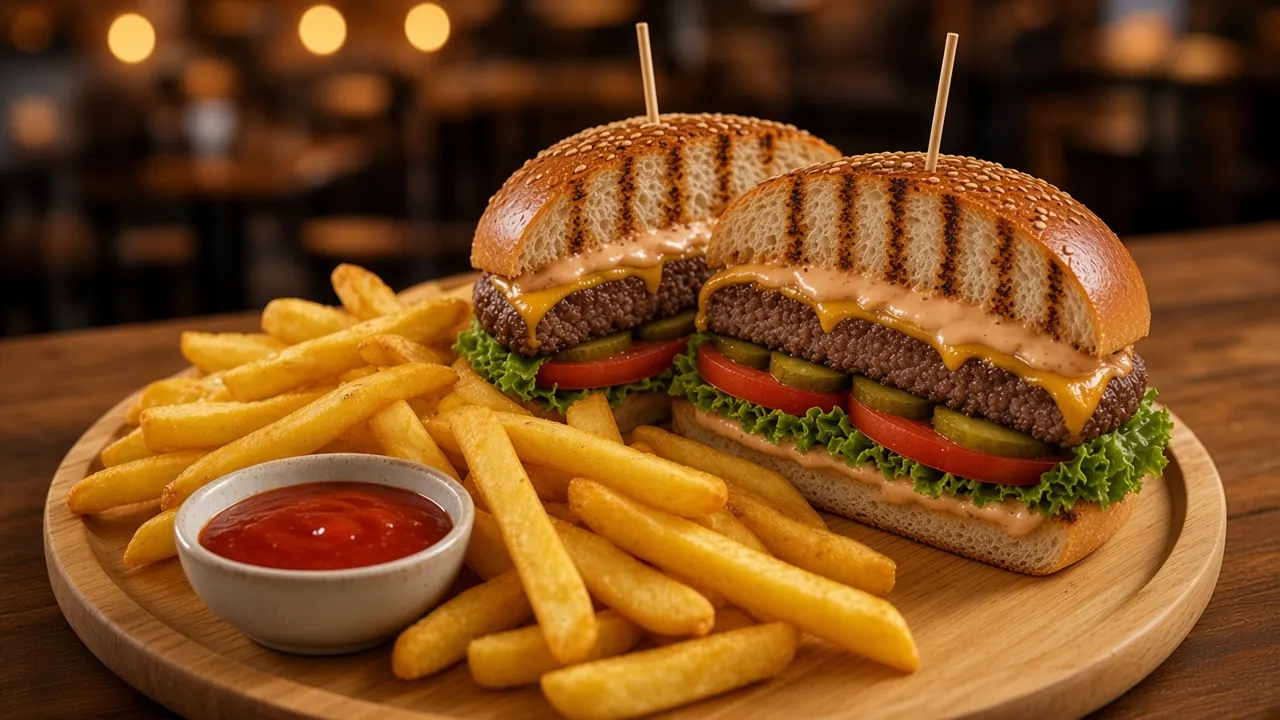
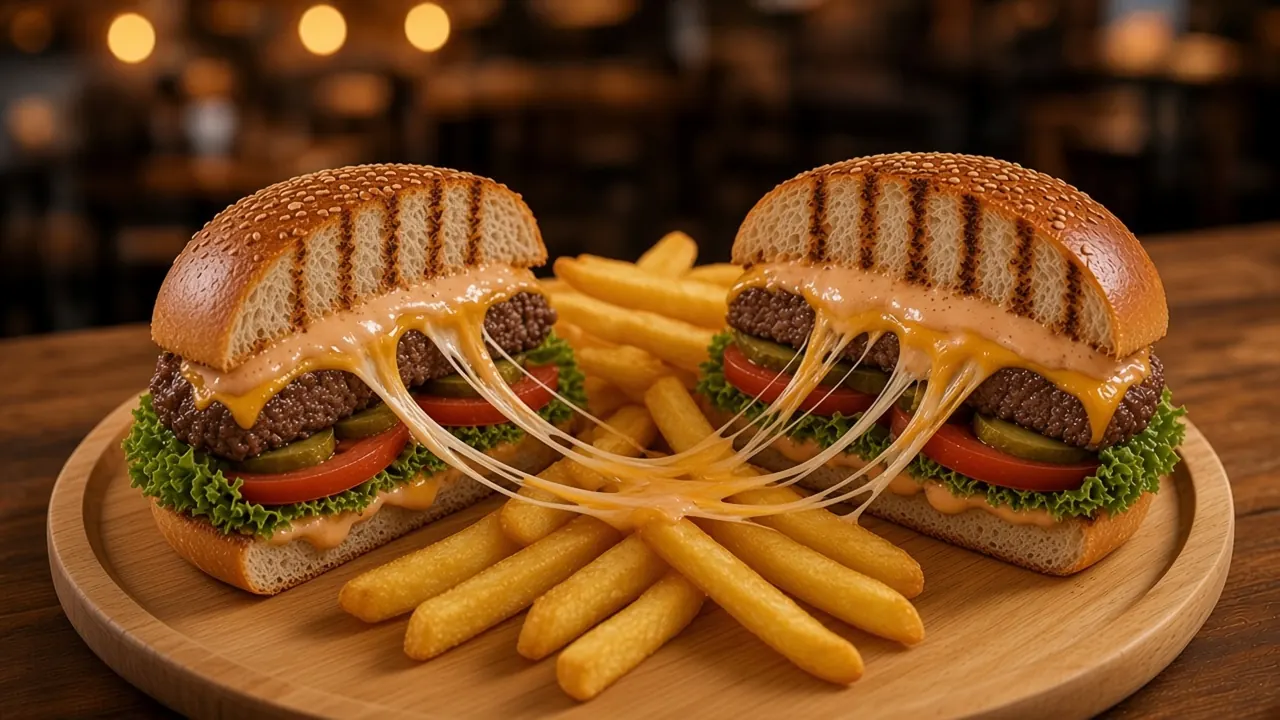
Hamburger görseli: V şeklinde yarımlar, uzayan cheddar, ortada patates

diff --git a/index.html b/index.html
@@ -13,7 +13,7 @@
      3) Alttaki JSON-LD içindeki "url" ve "image" alanlarına da aynı adresi ekleyin.
 <link rel="canonical" href="https://ALAN-ADI/">
 <meta property="og:url" content="https://ALAN-ADI/">
-<meta property="og:image" content="https://ALAN-ADI/img/hero-hamburger.webp">
+<meta property="og:image" content="https://ALAN-ADI/img/hero-hamburger.webp?v=3">
      ================================================================ -->
 <meta property="og:type" content="restaurant">
 <meta property="og:locale" content="tr_TR">
@@ -24,8 +24,8 @@
 <link rel="preconnect" href="https://fonts.googleapis.com">
 <link rel="preconnect" href="https://fonts.gstatic.com" crossorigin>
 <link rel="stylesheet" href="https://fonts.googleapis.com/css2?family=Bricolage+Grotesque:opsz,wght@12..96,500;12..96,700;12..96,800&family=Inter:wght@400;500;600;700&display=swap">
-<link rel="preload" as="image" href="img/hero-hamburger.webp" imagesrcset="img/hero-hamburger-640.webp 640w, img/hero-hamburger.webp 1280w" imagesizes="100vw">
-<link rel="stylesheet" href="assets/site.css">
+<link rel="preload" as="image" href="img/hero-hamburger.webp?v=3" imagesrcset="img/hero-hamburger-640.webp?v=3 640w, img/hero-hamburger.webp?v=3 1280w" imagesizes="100vw">
+<link rel="stylesheet" href="assets/site.css?v=3">
 <script>if(/[?&]shoot=1/.test(location.search))document.documentElement.classList.add('shoot');document.documentElement.classList.add('js');</script>
 <script type="application/ld+json">
 {
@@ -79,8 +79,8 @@
   <!-- HERO -->
   <section class="hero" aria-labelledby="hero-h">
     <picture class="hero__bg">
-      <source type="image/webp" srcset="img/hero-hamburger-640.webp 640w, img/hero-hamburger.webp 1280w" sizes="100vw">
-      <img src="img/hero-hamburger.webp" alt="Izgarada kızartılmış ekmekli, cheddarlı hamburger ve patates" width="1280" height="720" fetchpriority="high">
+      <source type="image/webp" srcset="img/hero-hamburger-640.webp?v=3 640w, img/hero-hamburger.webp?v=3 1280w" sizes="100vw">
+      <img src="img/hero-hamburger.webp?v=3" alt="Izgarada kızartılmış ekmekli, cheddarlı hamburger ve patates" width="1280" height="720" fetchpriority="high">
     </picture>
     <div class="hero__shade" aria-hidden="true"></div>
     <div class="wrap hero__in">
@@ -115,7 +115,7 @@
   <section class="section signature" id="imza" aria-labelledby="imza-h">
     <div class="wrap signature__in">
       <figure class="signature__media reveal">
-        <img src="img/hero-hamburger.webp" srcset="img/hero-hamburger-640.webp 640w, img/hero-hamburger.webp 1280w" sizes="(min-width: 900px) 55vw, 100vw" alt="Ekmeği ızgarada kızartılmış, özel soslu, marul, domates, turşu, köfte ve cheddarlı hamburger, yanında patates" width="1280" height="720" loading="lazy" decoding="async">
+        <img src="img/hero-hamburger.webp?v=3" srcset="img/hero-hamburger-640.webp?v=3 640w, img/hero-hamburger.webp?v=3 1280w" sizes="(min-width: 900px) 55vw, 100vw" alt="İkiye kesilmiş, V şeklinde duran hamburger yarımları arasında uzayan cheddar ve ortada patates" width="1280" height="720" loading="lazy" decoding="async">
         <span class="stamp" aria-hidden="true">İmza<br>Lezzet</span>
       </figure>
       <div class="signature__text reveal">
@@ -329,6 +329,6 @@
 <div class="toast" id="toast" role="status" aria-live="polite"></div>
 
 <script src="assets/main.js" defer></script>
-<script src="assets/order.js" defer></script>
+<script src="assets/order.js?v=3" defer></script>
 </body>
 </html>

diff --git a/assets/order.js b/assets/order.js
@@ -5,7 +5,7 @@
   var WA_NUMBER='905426477210';
   var KEY='maminin-yeri-sepet-v1';
   var FOOD=[
-    {id:'hamburger',name:'Hamburger + patates',img:'hero-hamburger',tag:'İmza'},
+    {id:'hamburger',name:'Hamburger + patates',img:'hero-hamburger',tag:'İmza',v:3},
     {id:'balik',name:'Balık ekmek',img:'balik-ekmek'},
     {id:'kofte',name:'Köfte ekmek',img:'kofte-ekmek'},
     {id:'sucuk',name:'Sucuk ekmek',img:'sucuk-ekmek'},
@@ -33,7 +33,7 @@
   function esc(t){ return String(t).replace(/[&<>"]/g,function(c){return {'&':'&amp;','<':'&lt;','>':'&gt;','"':'&quot;'}[c];}); }
 
   function row(p,isFood){
-    var media=isFood?'<img src="img/thumb-'+p.img+'.webp" alt="" width="72" height="72" loading="lazy" decoding="async">':'<span class="ico" aria-hidden="true">'+p.ico+'</span>';
+    var media=isFood?'<img src="img/thumb-'+p.img+'.webp'+(p.v?'?v='+p.v:'')+'" alt="" width="72" height="72" loading="lazy" decoding="async">':'<span class="ico" aria-hidden="true">'+p.ico+'</span>';
     var note=isFood?'<input class="inote" data-note="'+p.id+'" maxlength="80" placeholder="Bu ürüne not (örn. soğansız)" aria-label="'+esc(p.name)+' için not">':'';
     return '<li class="item" data-id="'+p.id+'">'+media+
       '<div class="item__main"><span class="item__name">'+esc(p.name)+(p.tag?' <em class="mini">'+p.tag+'</em>':'')+'</span>'+note+'</div>'+

diff --git a/assets/site.css b/assets/site.css
@@ -47,7 +47,7 @@ h3{font-size:1.35rem;font-weight:700;letter-spacing:-.01em}
 /* hero */
 .hero{position:relative;min-height:min(100svh,900px);display:flex;align-items:flex-end;overflow:hidden;isolation:isolate}
 .hero__bg,.hero__bg img{position:absolute;inset:0;width:100%;height:100%;object-fit:cover;z-index:-2}
-.hero__bg img{object-position:62% 50%;transform:scale(1.04);animation:slowzoom 18s ease-out forwards}
+.hero__bg img{object-position:58% 50%;transform:scale(1.04);animation:slowzoom 18s ease-out forwards}
 @keyframes slowzoom{to{transform:scale(1)}}
 .hero__shade{position:absolute;inset:0;z-index:-1;background:
   linear-gradient(180deg,rgba(20,12,8,.55) 0%,rgba(20,12,8,.15) 30%,rgba(20,12,8,.75) 70%,var(--bg) 100%),
@@ -259,3 +259,4 @@ button.btn{cursor:pointer;font-family:var(--sans)}
 .item__name{grid-row:1;grid-column:2}
 .step{grid-row:1;grid-column:3}
 .inote{grid-row:2;grid-column:1/-1}
+@media(max-width:700px){.hero__bg img{object-position:50% 50%}}
